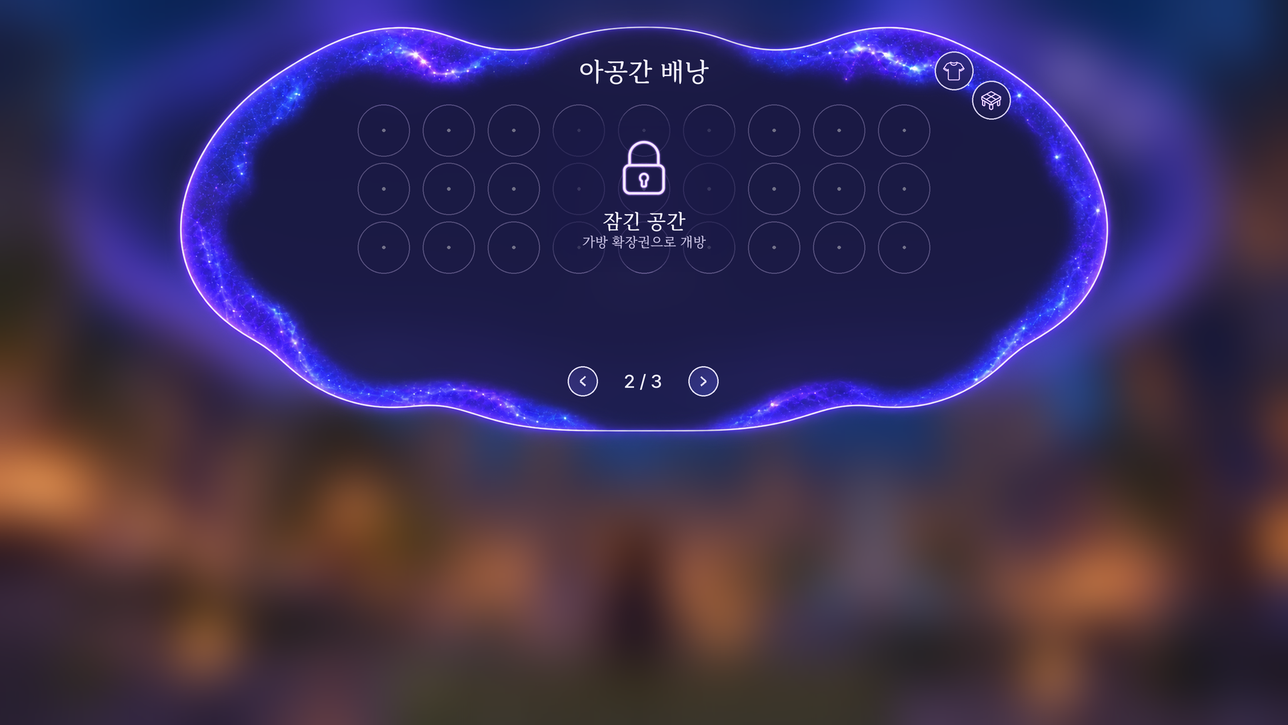
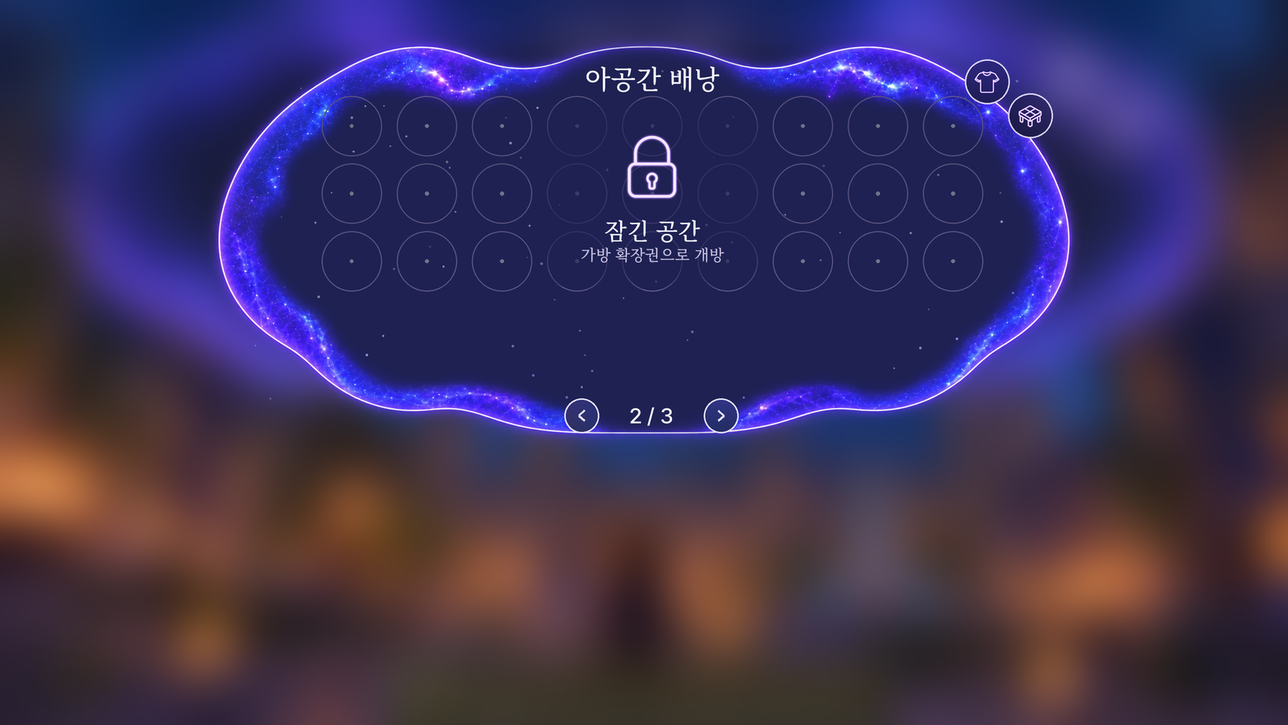
아공간 배낭 2차: 레퍼런스 좌표·크기 그대로, 안쪽 면 불투명
- 캔버스 1672x941 = 오너 레퍼런스, 슬롯·버튼·제작창 위치와 크기 전부 레퍼런스 실측값
- 테두리 PNG 보이는 영역을 레퍼런스 테두리 위치에 맞춤
- 안쪽 면 불투명(#1E2152, 은하 띠 아래까지) + 희미한 별 점, 조합법 카드 아이템 크게
- 인계 문서 배치 절 갱신, 미리보기 다시 렌더

Claude-Session: https://claude.ai/code/session_0195n7GXNFft2XywgWRcxuzD

diff --git a/magic-codex-fabric/src/main/java/school/magiccodex/client/GalaxyBagLayout.java b/magic-codex-fabric/src/main/java/school/magiccodex/client/GalaxyBagLayout.java
@@ -3,62 +3,62 @@ package school.magiccodex.client;
 /**
  * 아공간 배낭 inventory layout (2026-10-24). No Minecraft types: placement, animation and hit tests only.
  *
- * Design canvas 1932x1087 (16:9). Slot sizes, spacing and the crafting panel's contents are the owner's reference
- * picture's (bag + crafting panel open, 1672x941), shifted onto this canvas. The galaxy band of bag_galaxy_border.png
- * is thicker than in that picture, so the bag PNG is drawn larger (scale 0.8, found from the PNG's alpha interior so
- * every ring, number and the pager stay inside the dark area; the two round buttons sit on the band, top right).
- * The bag sits top-centre; when the crafting panel opens the bag slides left and the panel slides in on its right so
- * the pair is centred, as in the reference. Both borders keep their PNG aspect ratio (uniform scale, no nine-slice).
+ * Owner rule (2026-10-24): exactly the reference picture (1672x941, bag + crafting panel open). Every position and
+ * size is measured from it; the two border PNGs are laid on the reference outlines (visible box to visible box).
+ * The bag sits top-centre; when the crafting panel opens the bag slides left and the panel slides in on its right,
+ * ending exactly at the reference layout.
  */
 final class GalaxyBagLayout {
     private GalaxyBagLayout() {}
 
-    static final int CANVAS_W = 1932, CANVAS_H = 1087;
+    static final int CANVAS_W = 1672, CANVAS_H = 941;
 
     // ---- bag border (bag_galaxy_border.png 1817x866, visible 13..1804 x 33..842) placed on the reference bag
     static final int BAG_PNG_W = 1817, BAG_PNG_H = 866;
-    static final float BAG_SCALE = 0.8f, BAG_X = 9.6f, BAG_Y = -6f;
-    static final float BAG_W = BAG_PNG_W * BAG_SCALE, BAG_H = BAG_PNG_H * BAG_SCALE;
+    /** PNG visible box (13..1804 x 33..842) laid exactly on the reference bag outline (45..1182 x 44..580). */
+    static final float BAG_SX = 1137f / 1791f, BAG_SY = 536f / 809f, BAG_X = 45 - 13 * BAG_SX, BAG_Y = 44 - 33 * BAG_SY;
+    static final float BAG_W = BAG_PNG_W * BAG_SX, BAG_H = BAG_PNG_H * BAG_SY;
     /** Visible outline of the bag on the canvas (PNG visible bbox at this scale). */
-    static final float BAG_LEFT = 20, BAG_RIGHT = 1452.8f, BAG_TOP = 20.4f, BAG_BOTTOM = 667.6f;
+    static final float BAG_LEFT = 45, BAG_RIGHT = 1182, BAG_TOP = 44, BAG_BOTTOM = 580;
     /** Shift that centres the bag alone (crafting closed): canvas centre minus the bag's visible centre. */
     static final float BAG_ALONE_SHIFT = CANVAS_W / 2f - (BAG_LEFT + BAG_RIGHT) / 2f;
 
     // ---- crafting panel (craft_panel_border.png 1108x1420, visible 34..1075 x 43..1380)
     static final int PANEL_PNG_W = 1108, PANEL_PNG_H = 1420;
-    static final float PANEL_SCALE = 0.43f, PANEL_X = 1452.4f, PANEL_Y = 36.5f;
-    static final float PANEL_W = PANEL_PNG_W * PANEL_SCALE, PANEL_H = PANEL_PNG_H * PANEL_SCALE;
-    static final float PANEL_LEFT = 1467, PANEL_RIGHT = 1912, PANEL_TOP = 55, PANEL_BOTTOM = 633;
+    /** PNG visible box (34..1075 x 43..1380) laid exactly on the reference panel outline (1185..1630 x 52..630). */
+    static final float PANEL_SX = 445f / 1041f, PANEL_SY = 578f / 1337f, PANEL_X = 1185 - 34 * PANEL_SX, PANEL_Y = 52 - 43 * PANEL_SY;
+    static final float PANEL_W = PANEL_PNG_W * PANEL_SX, PANEL_H = PANEL_PNG_H * PANEL_SY;
+    static final float PANEL_LEFT = 1185, PANEL_RIGHT = 1630, PANEL_TOP = 52, PANEL_BOTTOM = 630;
     /** Panel enters from the right by this much while it fades in. */
     static final float PANEL_SLIDE = 48;
     static final float OPEN_SECONDS = 0.24f;
 
     // ---- bag contents
-    static final float MAIN_X0 = 346, MAIN_STEP_X = 97.6f, MAIN_Y0 = 195.5f, MAIN_STEP_Y = 87.75f, MAIN_R = 39, MAIN_ITEM = 62;
-    static final float HOTBAR_X0 = 384.5f, HOTBAR_STEP = 89f, HOTBAR_Y = 476, HOTBAR_R = 35, HOTBAR_ITEM = 54, HOTBAR_NUMBER_Y = 526;
-    static final float DIVIDER_Y = 424.5f, DIVIDER_X0 = 306, DIVIDER_X1 = 1174.5f;
-    static final float PAGER_Y = 571.5f, PAGER_PREV_X = 644.5f, PAGER_NEXT_X = 825.5f, PAGER_LABEL_X = 735, PAGER_R = 22.5f;
-    static final float EQUIP_X = 1201.6f, EQUIP_Y = 106, CRAFT_BTN_X = 1257.6f, CRAFT_BTN_Y = 150, ROUND_BTN_R = 29;
+    static final float MAIN_X0 = 234, MAIN_STEP_X = 97.6f, MAIN_Y0 = 163.5f, MAIN_STEP_Y = 87.75f, MAIN_R = 39, MAIN_ITEM = 62;
+    static final float HOTBAR_X0 = 272.5f, HOTBAR_STEP = 89f, HOTBAR_Y = 444, HOTBAR_R = 35, HOTBAR_ITEM = 54, HOTBAR_NUMBER_Y = 494;
+    static final float DIVIDER_Y = 392.5f, DIVIDER_X0 = 194, DIVIDER_X1 = 1062.5f;
+    static final float PAGER_Y = 539.5f, PAGER_PREV_X = 532.5f, PAGER_NEXT_X = 713.5f, PAGER_LABEL_X = 623, PAGER_R = 22.5f;
+    static final float EQUIP_X = 1059, EQUIP_Y = 106, CRAFT_BTN_X = 1115, CRAFT_BTN_Y = 150, ROUND_BTN_R = 29;
     // locked page (owner's lock reference, rescaled to this bag's row spacing)
-    static final float LOCK_TITLE_Y = 108, LOCK_ICON_Y = 251, LOCK_ICON = 120, LOCK_TEXT_Y = 332, LOCK_HINT_Y = 363;
+    static final float LOCK_TITLE_Y = 103, LOCK_ICON_Y = 216, LOCK_ICON = 120, LOCK_TEXT_Y = 300, LOCK_HINT_Y = 331;
 
     // ---- crafting panel contents
-    static final float CRAFT_TITLE_X = 1532, CRAFT_TITLE_Y = 103, BOOK_X = 1643, BOOK_Y = 99, BOOK_SIZE = 52;
-    static final float CLOSE_X = 1861, CLOSE_Y = 103, CLOSE_R = 23;
-    static final float TITLE_RULE_Y = 130, TITLE_RULE_X0 = 1499, TITLE_RULE_X1 = 1607;
-    static final float[][] INPUTS = {{1555, 180}, {1640, 180}, {1555, 265}, {1640, 265}};
+    static final float CRAFT_TITLE_X = 1250, CRAFT_TITLE_Y = 100, BOOK_X = 1361, BOOK_Y = 96, BOOK_SIZE = 52;
+    static final float CLOSE_X = 1579, CLOSE_Y = 100, CLOSE_R = 23;
+    static final float TITLE_RULE_Y = 127, TITLE_RULE_X0 = 1217, TITLE_RULE_X1 = 1325;
+    static final float[][] INPUTS = {{1273, 177}, {1358, 177}, {1273, 262}, {1358, 262}};
     static final float INPUT_R = 37.5f, INPUT_ITEM = 52;
-    static final float RESULT_X = 1824, RESULT_Y = 220, RESULT_R = 51, RESULT_ITEM = 70;
-    static final float ARROW_X = 1726, ARROW_Y = 220, ARROW_LEN = 55;
-    static final float SECTION_RULE_Y = 318, SECTION_RULE_X0 = 1499, SECTION_RULE_X1 = 1887;
-    static final float RECIPE_TITLE_X = 1534, RECIPE_TITLE_Y = 355;
-    static final float SEARCH_X0 = 1597, SEARCH_X1 = 1747, SEARCH_Y0 = 335, SEARCH_Y1 = 370;
-    static final float CRAFTABLE_LABEL_X = 1797, CRAFTABLE_LABEL_Y = 354;
-    static final float TOGGLE_X0 = 1846, TOGGLE_X1 = 1892, TOGGLE_Y0 = 343, TOGGLE_Y1 = 367;
-    static final float[] CARD_X = {1509, 1637, 1764}, CARD_Y = {389, 490};
-    static final float CARD_W = 116, CARD_H = 88, CARD_ITEM = 58;
+    static final float RESULT_X = 1542, RESULT_Y = 217, RESULT_R = 51, RESULT_ITEM = 70;
+    static final float ARROW_X = 1444, ARROW_Y = 217, ARROW_LEN = 55;
+    static final float SECTION_RULE_Y = 315, SECTION_RULE_X0 = 1217, SECTION_RULE_X1 = 1605;
+    static final float RECIPE_TITLE_X = 1252, RECIPE_TITLE_Y = 352;
+    static final float SEARCH_X0 = 1315, SEARCH_X1 = 1465, SEARCH_Y0 = 332, SEARCH_Y1 = 367;
+    static final float CRAFTABLE_LABEL_X = 1515, CRAFTABLE_LABEL_Y = 351;
+    static final float TOGGLE_X0 = 1564, TOGGLE_X1 = 1610, TOGGLE_Y0 = 340, TOGGLE_Y1 = 364;
+    static final float[] CARD_X = {1227, 1355, 1482}, CARD_Y = {386, 487};
+    static final float CARD_W = 116, CARD_H = 88, CARD_ITEM = 66;
     static final int CARDS_PER_PAGE = 6;
-    static final float RECIPE_PAGER_Y = 603, RECIPE_PREV_X = 1627, RECIPE_NEXT_X = 1757, RECIPE_LABEL_X = 1692, RECIPE_PAGER_R = 17;
+    static final float RECIPE_PAGER_Y = 600, RECIPE_PREV_X = 1345, RECIPE_NEXT_X = 1475, RECIPE_LABEL_X = 1410, RECIPE_PAGER_R = 17;
 
     // ---- PlayerScreenHandler slot ids
     static final int RESULT_SLOT = 0, INPUT_START = 1, MAIN_START = 9, HOTBAR_START = 36;

diff --git a/magic-codex-fabric/src/main/java/school/magiccodex/client/GalaxyBagScreen.java b/magic-codex-fabric/src/main/java/school/magiccodex/client/GalaxyBagScreen.java
@@ -50,7 +50,7 @@ public final class GalaxyBagScreen extends HandledScreen<PlayerScreenHandler> im
             MEDIUM = Identifier.of("magiccodex", "label"), BODY = Identifier.of("magiccodex", "body");
 
     // Colours sampled from the reference: navy-violet glass, lavender rings, white text.
-    private static final int FILL = 0xD81A1946, RING = 0xB8C7B2FF, RING_HOVER = 0xFFEDE4FF, RING_DIM = 0x55C7B2FF,
+    private static final int FILL = 0xFF1E2152, RING = 0xB8C7B2FF, RING_HOVER = 0xFFEDE4FF, RING_DIM = 0x55C7B2FF,
             DOT = 0xE6F2EEFF, DOT_DIM = 0x66F2EEFF, TEXT = 0xFFF4F1FF, TEXT_SOFT = 0xD9DCD5F5, TEXT_HINT = 0x99C9C2E6,
             RULE = 0xA6C7B2FF, ACCENT = 0xFF8F6BFF, GLOW = 0x669C7BFF, CARD_FILL = 0x3A2A2470, CARD_RING = 0x99A891F0,
             CARD_SELECTED = 0xFFC9B6FF, VIOLET = 0xFF7C5CF0;
@@ -359,6 +359,7 @@ public final class GalaxyBagScreen extends HandledScreen<PlayerScreenHandler> im
         try {
             m.translate(s, 0, 0);
             image(c, BAG_FILL, GalaxyBagLayout.BAG_X, GalaxyBagLayout.BAG_Y, GalaxyBagLayout.BAG_W, GalaxyBagLayout.BAG_H, BAG_FILL_W, BAG_FILL_H, FILL);
+            stars(c, BAG_STARS);
             image(c, BAG, GalaxyBagLayout.BAG_X, GalaxyBagLayout.BAG_Y, GalaxyBagLayout.BAG_W, GalaxyBagLayout.BAG_H, GalaxyBagLayout.BAG_PNG_W, GalaxyBagLayout.BAG_PNG_H, 0xFFFFFFFF);
             var text = UiResources.text();
             boolean locked = lockedView();
@@ -370,12 +371,12 @@ public final class GalaxyBagScreen extends HandledScreen<PlayerScreenHandler> im
             }
             if (locked) {
                 float cx = GalaxyBagLayout.MAIN_X0 + 4 * GalaxyBagLayout.MAIN_STEP_X, size = GalaxyBagLayout.LOCK_ICON;
-                text.draw(c, "아공간 배낭", cx, GalaxyBagLayout.LOCK_TITLE_Y, 38, TEXT, SERIF, true);
+                text.draw(c, "아공간 배낭", cx, GalaxyBagLayout.LOCK_TITLE_Y, 34, TEXT, SERIF, true);
                 // Like the lock reference: the dim rings fade out behind the padlock and the two lines of text.
                 float top = GalaxyBagLayout.LOCK_ICON_Y - size * 0.5f, bottom = GalaxyBagLayout.LOCK_HINT_Y + 18;
                 for (int k = 0; k < 4; k++) {
                     float grow = 26 - k * 8;
-                    roundRect(c, cx - 128 - grow, top - grow, 256 + grow * 2, bottom - top + grow * 2, 30 + grow, 0x401A1946);
+                    roundRect(c, cx - 128 - grow, top - grow, 256 + grow * 2, bottom - top + grow * 2, 30 + grow, 0x401E2152);
                 }
                 image(c, PADLOCK, cx - size / 2, GalaxyBagLayout.LOCK_ICON_Y - size / 2, size, size, PADLOCK_PNG, PADLOCK_PNG, 0xFFFFFFFF);
                 text.draw(c, "잠긴 공간", cx, GalaxyBagLayout.LOCK_TEXT_Y, 30, TEXT, SERIF, true);
@@ -409,6 +410,7 @@ public final class GalaxyBagScreen extends HandledScreen<PlayerScreenHandler> im
         try {
             m.translate(s, 0, 0);
             image(c, PANEL_FILL, GalaxyBagLayout.PANEL_X, GalaxyBagLayout.PANEL_Y, GalaxyBagLayout.PANEL_W, GalaxyBagLayout.PANEL_H, PANEL_FILL_W, PANEL_FILL_H, fade(FILL, alpha));
+            if (alpha > 0.5f) stars(c, PANEL_STARS);
             image(c, PANEL, GalaxyBagLayout.PANEL_X, GalaxyBagLayout.PANEL_Y, GalaxyBagLayout.PANEL_W, GalaxyBagLayout.PANEL_H, GalaxyBagLayout.PANEL_PNG_W, GalaxyBagLayout.PANEL_PNG_H, fade(0xFFFFFFFF, alpha));
             var text = UiResources.text();
             text.draw(c, "제작", GalaxyBagLayout.CRAFT_TITLE_X, GalaxyBagLayout.CRAFT_TITLE_Y, 32, fade(TEXT, alpha), BOLD, true);
@@ -662,6 +664,27 @@ public final class GalaxyBagScreen extends HandledScreen<PlayerScreenHandler> im
     }
 
     // ------------------------------------------------------------------ shapes
+
+    /** Faint fixed star dust inside the glass, as in the reference (x, y, radius, alpha) — same every frame. */
+    private static final float[][] BAG_STARS = starField(7, 70, GalaxyBagLayout.BAG_LEFT + 60, GalaxyBagLayout.BAG_TOP + 40,
+            GalaxyBagLayout.BAG_RIGHT - 60, GalaxyBagLayout.BAG_BOTTOM - 40, false),
+            PANEL_STARS = starField(11, 26, GalaxyBagLayout.PANEL_LEFT + 24, GalaxyBagLayout.PANEL_TOP + 24,
+            GalaxyBagLayout.PANEL_RIGHT - 24, GalaxyBagLayout.PANEL_BOTTOM - 24, true);
+
+    private static float[][] starField(long seed, int count, float x0, float y0, float x1, float y1, boolean panel) {
+        var random = new java.util.Random(seed);
+        var out = new java.util.ArrayList<float[]>();
+        while (out.size() < count) {
+            float x = x0 + random.nextFloat() * (x1 - x0), y = y0 + random.nextFloat() * (y1 - y0);
+            if (!panel && !GalaxyBagLayout.insideBag(x + GalaxyBagLayout.bagShift(1), y, 1)) continue;
+            out.add(new float[]{x, y, 0.7f + random.nextFloat() * 0.9f, 0.18f + random.nextFloat() * 0.4f});
+        }
+        return out.toArray(float[][]::new);
+    }
+
+    private static void stars(DrawContext c, float[][] stars) {
+        for (float[] s : stars) HudMesh.disk(c, s[0], s[1], s[2], (Math.round(s[3] * 255) << 24) | 0xDCD8FF);
+    }
 
     private void roundButton(DrawContext c, float cx, float cy, Identifier icon, boolean lit, double mx, double my) {
         float r = GalaxyBagLayout.ROUND_BTN_R;

diff --git a/magic-codex-fabric/src/test/java/school/magiccodex/client/GalaxyBagLayoutTest.java b/magic-codex-fabric/src/test/java/school/magiccodex/client/GalaxyBagLayoutTest.java
@@ -30,9 +30,13 @@ class GalaxyBagLayoutTest {
         assertTrue(GalaxyBagLayout.PANEL_LEFT > GalaxyBagLayout.BAG_RIGHT, "panel never covers the bag");
     }
 
-    @Test void bordersKeepTheirPngAspect() {
-        assertEquals((double) GalaxyBagLayout.BAG_PNG_W / GalaxyBagLayout.BAG_PNG_H, GalaxyBagLayout.BAG_W / GalaxyBagLayout.BAG_H, 1e-4);
-        assertEquals((double) GalaxyBagLayout.PANEL_PNG_W / GalaxyBagLayout.PANEL_PNG_H, GalaxyBagLayout.PANEL_W / GalaxyBagLayout.PANEL_H, 1e-4);
+    @Test void bordersLieOnTheReferenceOutlines() {
+        // PNG visible boxes (bag 13..1804 x 33..842, panel 34..1075 x 43..1380) land on the reference outlines.
+        assertEquals(45, GalaxyBagLayout.BAG_X + 13 * GalaxyBagLayout.BAG_SX, 0.01);
+        assertEquals(1182, GalaxyBagLayout.BAG_X + 1804 * GalaxyBagLayout.BAG_SX, 0.01);
+        assertEquals(580, GalaxyBagLayout.BAG_Y + 842 * GalaxyBagLayout.BAG_SY, 0.01);
+        assertEquals(1630, GalaxyBagLayout.PANEL_X + 1075 * GalaxyBagLayout.PANEL_SX, 0.01);
+        assertEquals(630, GalaxyBagLayout.PANEL_Y + 1380 * GalaxyBagLayout.PANEL_SY, 0.01);
     }
 
     @Test void fitIsUniformTopAlignedAndInsideTheWindow() {
@@ -59,8 +63,8 @@ class GalaxyBagLayoutTest {
         assertFalse(GalaxyBagLayout.hit(e, e.cx(), e.cy(), 0));
         assertTrue(GalaxyBagLayout.insideBag(GalaxyBagLayout.CANVAS_W / 2.0, 300, 0));
         assertFalse(GalaxyBagLayout.insideBag(10, 900, 0));
-        assertFalse(GalaxyBagLayout.insidePanel(1700, 300, 0));
-        assertTrue(GalaxyBagLayout.insidePanel(1700, 300, 1));
+        assertFalse(GalaxyBagLayout.insidePanel(1400, 300, 0));
+        assertTrue(GalaxyBagLayout.insidePanel(1400, 300, 1));
         assertEquals(0, GalaxyBagLayout.card(GalaxyBagLayout.CARD_X[0] + 5, GalaxyBagLayout.CARD_Y[0] + 5, 1));
         assertEquals(5, GalaxyBagLayout.card(GalaxyBagLayout.CARD_X[2] + 5, GalaxyBagLayout.CARD_Y[1] + 5, 1));
         assertEquals(-1, GalaxyBagLayout.card(GalaxyBagLayout.CARD_X[0] - 6, GalaxyBagLayout.CARD_Y[0], 1));

diff --git a/docs/handoff/CLAUDE_GALAXY_BAG_20261024.md b/docs/handoff/CLAUDE_GALAXY_BAG_20261024.md
@@ -55,16 +55,19 @@ Branch `claude/galaxy-bag-20261024`, based on `claude/shop-admin-inventory-20261
 | `resources/assets/magiccodex/textures/gui/bag/*` | 제공 PNG(아래 3장) + `asset_manifest.json`. |
 | `src/test/.../GalaxyBagLayoutTest.java` (새) | 8개. |
 
-### 배치
+### 배치 (2차, 오너: "있는 그대로만 레퍼런스 보고 다시")
 
-- 설계 캔버스 1932×1087(16:9), 화면에 균등 맞춤 + **위쪽 정렬**(가로 가운데). 슬롯 크기·간격과 제작창 내용은 오너 레퍼런스 좌표 그대로.
-- 제공 `bag_galaxy_border.png`의 은하 띠가 레퍼런스 그림보다 두꺼워서, 레퍼런스 배율(0.645)로는 슬롯·핫바·쪽 표시가 테두리에 걸린다.
-  PNG 알파에서 안쪽 어두운 영역을 계산해 **모든 링·번호·쪽 버튼이 안쪽에 들어가는 최소 배율 0.8**로 그린다(비율 고정, nine-slice 없음).
-  둥근 버튼 2개는 레퍼런스처럼 오른쪽 위 띠 위에 있다.
-- 제작창이 닫혀 있으면 배낭이 가운데. 열면 0.24초 동안 배낭이 왼쪽으로 미끄러지고 제작창이 오른쪽에서 밀려 들어오며(투명→불투명) 둘이 함께 가운데 정렬(레퍼런스 배치).
+- 캔버스 = 오너 레퍼런스 그대로(1672×941). 모든 위치·크기를 레퍼런스에서 잰 값 그대로 쓴다(슬롯 링 반지름 39, 간격 97.6 등).
+  화면에 균등 맞춤 + **위쪽 정렬**(가로 가운데).
+- 테두리 PNG는 보이는 영역(알파)을 레퍼런스 테두리 위치에 그대로 맞춘다(배낭 45..1182×44..580, 제작창 1185..1630×52..630).
+  그래서 가로·세로 배율이 약 4% 다르다(README의 "비율 고정"보다 오너 지시 "레퍼런스 그대로"를 따름).
+- 제공 PNG 모양이 레퍼런스 그림과 조금 달라서(아래 가운데가 들어가 있고 오른쪽 위가 좁음) 레퍼런스 좌표 그대로 두면
+  **쪽 화살표가 아래 테두리 선에 살짝 걸리고, 둥근 버튼 2개가 오른쪽 위 테두리 바깥쪽에 걸친다.** 위치는 레퍼런스대로 두었다(오너 확인 필요, PNG 수정본이 오면 좌표는 그대로 쓰면 됨).
+- **안쪽 면은 불투명**(레퍼런스에서 뽑은 남색 #1E2152)이고, 은하 띠 아래까지 깔아서 띠 너머로 월드가 비치지 않는다(1차는 반투명이라 오너가 지적).
+  레퍼런스처럼 희미한 별 점을 고정 위치에 찍는다.
+- 제작창이 닫혀 있으면 배낭이 가운데. 열면 0.24초 동안 배낭이 왼쪽으로 미끄러지고 제작창이 오른쪽에서 밀려 들어와 레퍼런스 배치에서 멈춘다.
   제작창 슬롯은 85% 이상 들어온 뒤부터 클릭된다.
-- 배경: 바닐라 회색 어둡게/흐림 없음(레퍼런스처럼 월드 위에 뜸). 테두리 안 반투명 남보라 면은 README대로 코드로 먼저 깔고 테두리를 위에 그린다
-  (안쪽 면 모양은 테두리 PNG 알파에서 만든 마스크 `*_fill.png`, 흰색 + 코드 색조).
+- 배경: 바닐라 회색 어둡게/흐림 없음(레퍼런스처럼 월드 위에 뜸).
 - 글꼴: "아공간 배낭"·"잠긴 공간" 마루부리(title), "제작"·"조합법"·수량 Pretendard Bold, 숫자·쪽 표시 Pretendard Medium.
 
 ### 동작
